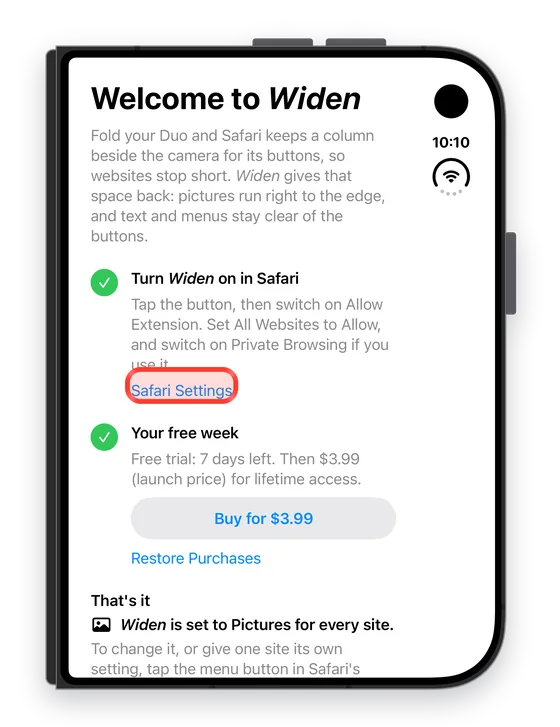
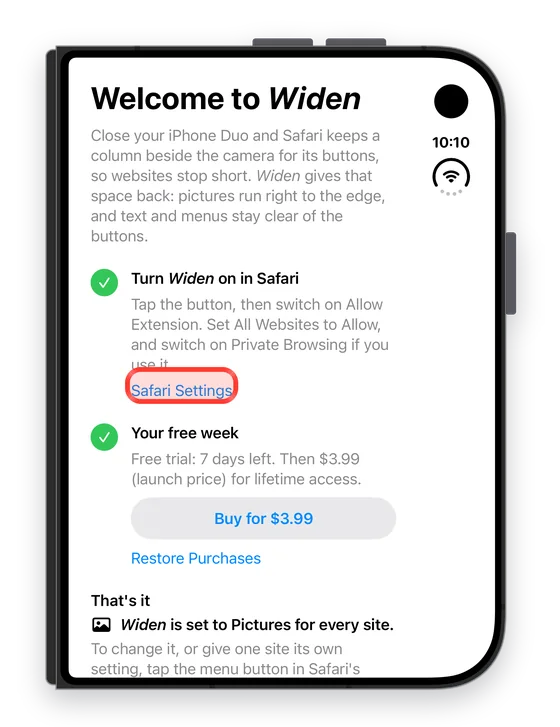
Setup step 1 picture retaken: 'Close your iPhone Duo'

Changed region(s): [[0.1518, 0.1816, 0.6679, 0.2724]]

diff --git a/setup/index.html b/setup/index.html
@@ -25,7 +25,7 @@
         <div><span class="where">In the <em>Widen</em> app</span>
           <h2>Open <em>Widen</em></h2>
           <p>Tap <strong>Safari Settings</strong>. It takes you straight to <em>Widen</em>&rsquo;s page in the Settings app. iOS only lets you, not apps, switch on a Safari extension, so this is the one step you do yourself.</p></div>
-        <figure class="shot"><img src="../img/setup-app.webp?v=4" width="560" height="727" loading="lazy" alt="The Widen app's welcome screen with the Safari Settings link circled"><figcaption>Tap <strong>Safari Settings</strong></figcaption></figure>
+        <figure class="shot"><img src="../img/setup-app.webp?v=5" width="560" height="727" loading="lazy" alt="The Widen app's welcome screen with the Safari Settings link circled"><figcaption>Tap <strong>Safari Settings</strong></figcaption></figure>
       </li>
       <li>
         <div><span class="where">In Settings</span>
